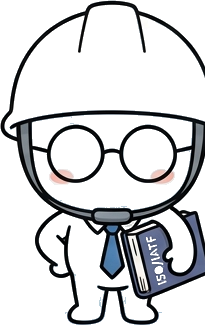
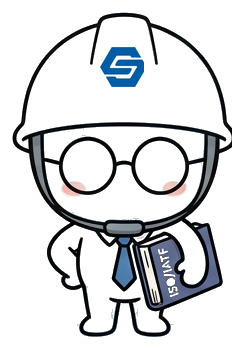
캐릭터 재정비 + 신성오토텍 로고 + float 애니메이션
- 5명 전원 2D 재크롭 (잘림 없이 여백 포함)
- 각 안전모 중앙에 신성오토텍 S 로고 오버레이
- 히어로 캐릭터 상하 float 애니메이션 (회전 없음)

diff --git a/safety-characters/script.js b/safety-characters/script.js
@@ -14,41 +14,8 @@
 
   document.querySelectorAll('.chapter, .reveal').forEach(el => io.observe(el));
 
-  // Hero parallax on scroll (subtle)
-  const chars = document.querySelectorAll('.hero__char');
-  const speeds = [0.08, -0.12, 0.06, -0.10, 0.14];
-
-  let ticking = false;
-  function onScroll(){
-    if (ticking) return;
-    ticking = true;
-    requestAnimationFrame(() => {
-      const y = window.scrollY;
-      chars.forEach((c, i) => {
-        const s = speeds[i] || 0.08;
-        c.style.transform = `translate3d(0, ${y * s}px, 0)`;
-      });
-      ticking = false;
-    });
-  }
-  window.addEventListener('scroll', onScroll, { passive:true });
-
-  // Cursor-following parallax on hero (desktop only)
-  const hero = document.querySelector('.hero__stage');
-  if (hero && window.matchMedia('(hover: hover)').matches){
-    hero.addEventListener('mousemove', (ev) => {
-      const rect = hero.getBoundingClientRect();
-      const cx = (ev.clientX - rect.left) / rect.width - 0.5;
-      const cy = (ev.clientY - rect.top) / rect.height - 0.5;
-      chars.forEach((c, i) => {
-        const depth = (i % 2 === 0 ? 1 : -1) * (8 + i * 2);
-        c.style.transform = `translate3d(${cx * depth}px, ${cy * depth}px, 0)`;
-      });
-    });
-    hero.addEventListener('mouseleave', () => {
-      chars.forEach(c => { c.style.transform = ''; });
-    });
-  }
+  // (Hero characters use a pure CSS float animation — no JS transform
+  //  so the bobbing stays smooth and consistent.)
 
   // Nav background intensify on scroll
   const nav = document.querySelector('.nav');

diff --git a/safety-characters/styles.css b/safety-characters/styles.css
@@ -189,12 +189,17 @@ ul{ list-style:none; }
   width: 100%; height: 100%;
   object-fit: contain;
 }
-.hero__char{ aspect-ratio: 1 / 1.25; }
-.hero__char--1{ width: 28%; left: 2%;   bottom: 2%;   z-index: 5; }
-.hero__char--2{ width: 24%; left: 24%;  bottom: 22%;  z-index: 4; }
-.hero__char--3{ width: 30%; left: 38%;  bottom: 4%;   z-index: 3; }
-.hero__char--4{ width: 24%; right: 20%; bottom: 24%;  z-index: 4; }
-.hero__char--5{ width: 26%; right: 0%;  bottom: 6%;   z-index: 5; }
+.hero__char{ aspect-ratio: 1 / 1.25; animation: float 6s ease-in-out infinite; }
+.hero__char--1{ width: 28%; left: 2%;   bottom: 2%;   z-index: 5; animation-delay: 0s;   }
+.hero__char--2{ width: 24%; left: 24%;  bottom: 22%;  z-index: 4; animation-delay: -1.2s;}
+.hero__char--3{ width: 30%; left: 38%;  bottom: 4%;   z-index: 3; animation-delay: -2.4s;}
+.hero__char--4{ width: 24%; right: 20%; bottom: 24%;  z-index: 4; animation-delay: -3.6s;}
+.hero__char--5{ width: 26%; right: 0%;  bottom: 6%;   z-index: 5; animation-delay: -4.8s;}
+
+@keyframes float {
+  0%, 100% { transform: translateY(0); }
+  50%      { transform: translateY(-14px); }
+}
 
 /* Placeholders when images are missing — stylized character silhouette */
 .ph{
